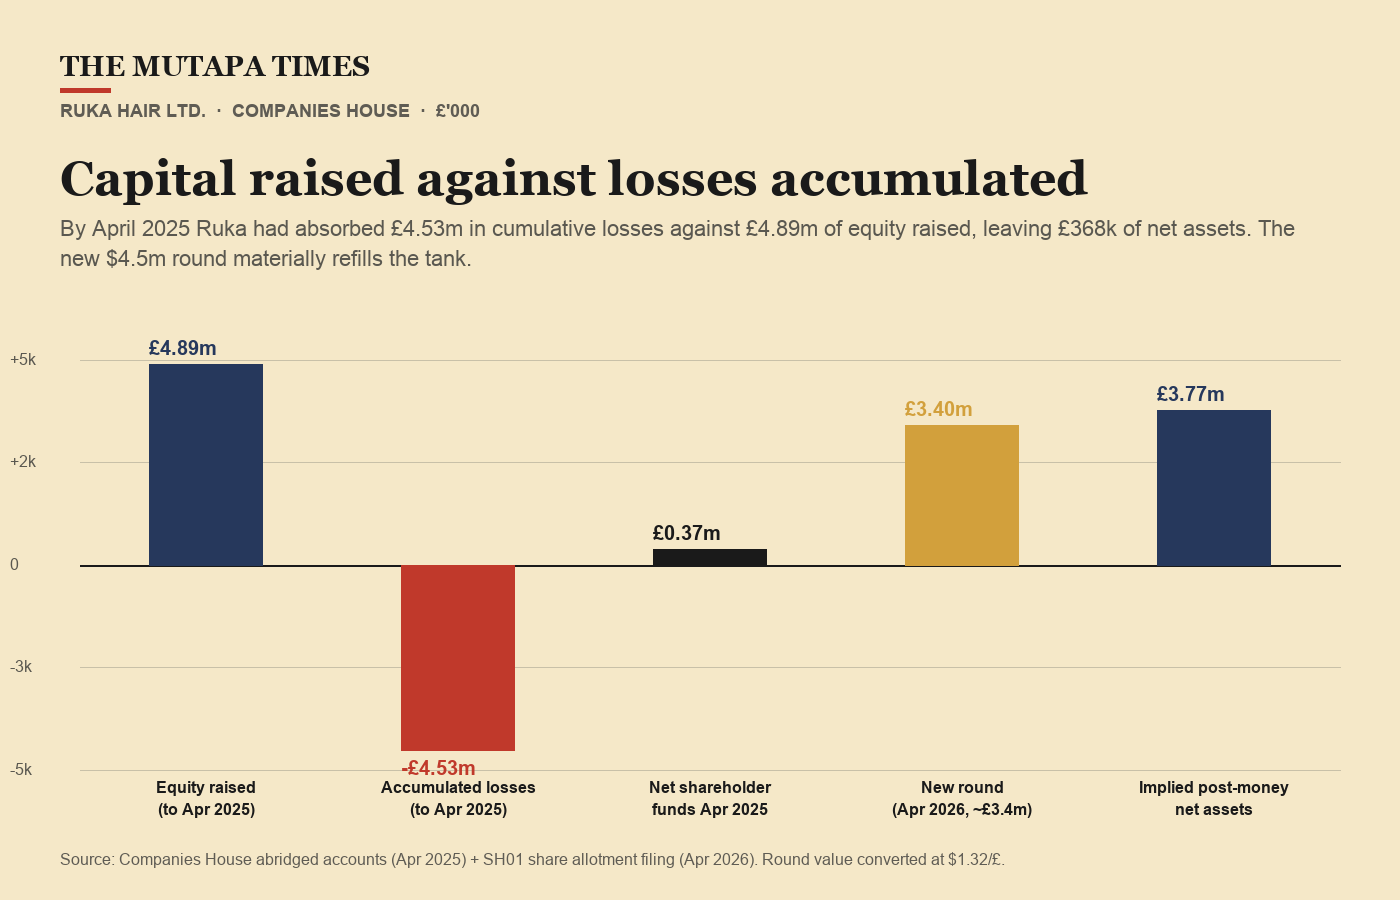
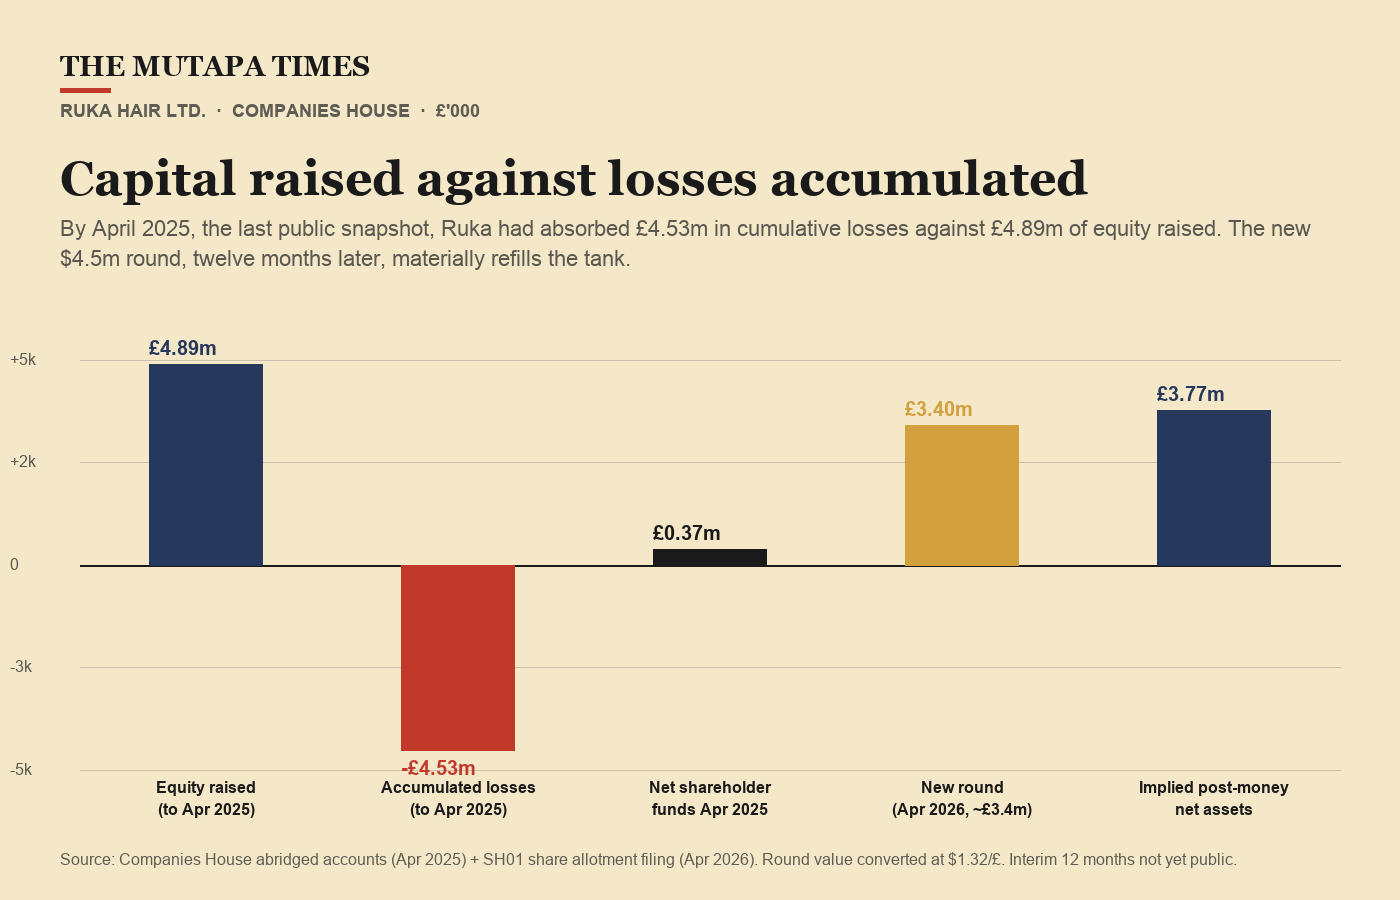
Ruka piece: be honest about the 12-month gap on the Companies House data
The Apr 2025 accounts are a year before the Apr 2026 round. Removed
"on the eve of the round" framing across body + chart titles +
subheads. Added an explicit caveat at the top of the balance-sheet
section flagging the interim 12 months are not yet public, and
softened the capital-efficiency paragraph so the 0.93 ratio is
clearly stamped as an April-2025 snapshot rather than the position
at signing.

Changed region(s): [[0.0307, 0.2489, 0.9214, 0.3111], [0.7064, 0.9333, 0.8907, 0.9644]]

diff --git a/articles/2026-05-14-henkel-ventures-co-leads-rukas-4-5m-round.html b/articles/2026-05-14-henkel-ventures-co-leads-rukas-4-5m-round.html
@@ -228,15 +228,18 @@ Freedom Trail Capital, the round's other co-lead, has previously backed Sienna N
 <p>
 Read at one remove, this is also a story about Zimbabwean diaspora capital-formation. The cohort of Zimbabwean-founded businesses scaling out of London, Johannesburg, New York and Toronto has, in the last five years, started to clear the kind of cap-table milestones that were once the preserve of much better-networked founder communities. Ruka, with Henkel now on the register alongside Big Issue Invest and a carefully chosen roster of operator-angels, is the most legible example to date of what that cohort can build. It will not be the last.
 </p>
-<h2>A leaner balance sheet on the eve of the round</h2>
+<h2>A leaner balance sheet, a year before the round</h2>
 <p>
-<img src="/img/uploads/ruka-launch/chart-balance-sheet.png" alt="Working capital cycle, tighter on the eve of the round" class="article-body-img">
+<img src="/img/uploads/ruka-launch/chart-balance-sheet.png" alt="Working capital cycle tightened over the year to April 2025" class="article-body-img">
 </p>
 <p>
-Ruka's most recent abridged accounts at Companies House, for the year ended 30 April 2025, show a company that arrived at this round with a cleaner working-capital profile than the previous reporting period suggested. Stocks fell to £447,212 from £727,505. Debtors fell to £342,263 from £602,417. Cash at bank multiplied close to tenfold, from £40,044 to £398,733. Creditors falling due within one year reduced to £823,725 from £900,022.
+One caveat at the top. Ruka's most recent abridged accounts at Companies House are for the year ended 30 April 2025, twelve months before the new round closed. The interim year, from May 2025 to April 2026, will not be in the public record until the next filing, due by the end of January 2027. The picture below is therefore the last public snapshot, not the picture at the moment Henkel signed.
 </p>
 <p>
-Read together, these are the marks of a company that has tightened its working-capital cycle, run down its inventory overhang and rebuilt a cash buffer ahead of a strategic raise. The 18-month comparator period, which ran to April 2024, captured the messier phase of a post-seed direct-to-consumer brand: heavier stock, longer receivables, a thin cash line. The year to April 2025 reads as an operational reset, of a kind familiar across the DTC sector since 2024.
+With that flagged, the trajectory through to 30 April 2025 was a clean one. Stocks fell to £447,212 from £727,505. Debtors fell to £342,263 from £602,417. Cash at bank multiplied close to tenfold, from £40,044 to £398,733. Creditors falling due within one year reduced to £823,725 from £900,022.
+</p>
+<p>
+Read together, these are the marks of a company that tightened its working-capital cycle, ran down its inventory overhang and rebuilt a cash buffer through the period. The 18-month comparator window, which ran to April 2024, captured the messier phase of a post-seed direct-to-consumer brand: heavier stock, longer receivables, a thin cash line. The year to April 2025 reads as an operational reset, of a kind familiar across the DTC sector since 2024. Whatever has happened in the twelve months since will land in the next set of accounts.
 </p>
 <p>
 Headcount over the most recent reporting period averaged seven, against an average of twenty across the prior 18-month window. The two periods are not strictly comparable on a like-for-like basis, but the direction is clear and consistent with what one would expect to see in the wider DTC consumer cohort over the same span.
@@ -246,10 +249,10 @@ Headcount over the most recent reporting period averaged seven, against an avera
 <img src="/img/uploads/ruka-launch/chart-capital-structure.png" alt="Capital raised against losses accumulated" class="article-body-img">
 </p>
 <p>
-The longer arc is harder. Ruka's accumulated profit and loss deficit widened to £4.53m at the April 2025 balance sheet date, from £4.07m eighteen months earlier. Aggregate equity on the balance sheet, including share capital, the share premium account and other reserves, stood at £4.89m. That left net shareholder funds of £367,944, after accumulated losses are netted out.
+The longer arc is harder. Ruka's accumulated profit and loss deficit widened to £4.53m at the April 2025 balance sheet date, from £4.07m eighteen months earlier. Aggregate equity on the balance sheet, including share capital, the share premium account and other reserves, stood at £4.89m at the same date. That left net shareholder funds of £367,944, after accumulated losses were netted out.
 </p>
 <p>
-The implied capital-efficiency ratio, accumulated losses against cumulative equity raised, sits at 0.93. In plain English: the company had absorbed roughly ninety-three pence of losses for every pound of equity put in, before this round. That ratio is not unusual for a venture-backed DTC consumer brand in its first five years, but it does explain the timing of the new round.
+The implied capital-efficiency ratio, accumulated losses against cumulative equity raised, was 0.93 at April 2025. In plain English: by that snapshot, the company had absorbed roughly ninety-three pence of losses for every pound of equity put in. That ratio is not unusual for a venture-backed DTC consumer brand in its first five years, but it does help explain the strategic case for the round that closed twelve months later. The 12-month interim, in which more burn will have taken place, will only become visible when the next set of accounts is filed.
 </p>
 <p>
 The 29 April 2026 SH01 filing at Companies House records the allotment of 109,289 new Series Seed shares on 28 April. The new shares carry full voting rights, full dividend rights and a liquidation preference that ranks first on a distribution of assets. Post-allotment, Ruka's issued share capital comprises 1,597,524 Ordinary shares and 689,436 Series Seed shares, a roughly 70/30 split. The aggregate nominal value of the company's issued capital is £914.78, the unrevealing rounding-error figure that small UK companies typically file. The economic price of the new round will be properly visible only in next year's accounts, when the cash crosses the share premium account.

diff --git a/scripts/build_ruka_charts.py b/scripts/build_ruka_charts.py
@@ -73,9 +73,9 @@ def _save(img, name):
 # ── 1. Balance-sheet bars ────────────────────────────────
 def chart_balance_sheet():
     img, draw = _setup(
-        "Working capital cycle, tighter on the eve of the round",
-        "Stocks down 39%, debtors down 43%, cash up nearly tenfold over the 12 months to April 2025.",
-        "Source: Companies House, Ruka Hair Ltd. unaudited abridged accounts, year to 30 April 2025.",
+        "Working capital cycle tightened over the year to April 2025",
+        "Stocks down 39%, debtors down 43%, cash up nearly tenfold over the 12 months to April 2025. The most recent public picture, a year before the new round.",
+        "Source: Companies House, Ruka Hair Ltd. unaudited abridged accounts, year to 30 April 2025. Next filing due January 2027.",
     )
     # Data — values in £'000
     series = [
@@ -137,8 +137,8 @@ def chart_balance_sheet():
 def chart_capital_structure():
     img, draw = _setup(
         "Capital raised against losses accumulated",
-        "By April 2025 Ruka had absorbed £4.53m in cumulative losses against £4.89m of equity raised, leaving £368k of net assets. The new $4.5m round materially refills the tank.",
-        "Source: Companies House abridged accounts (Apr 2025) + SH01 share allotment filing (Apr 2026). Round value converted at $1.32/£.",
+        "By April 2025, the last public snapshot, Ruka had absorbed £4.53m in cumulative losses against £4.89m of equity raised. The new $4.5m round, twelve months later, materially refills the tank.",
+        "Source: Companies House abridged accounts (Apr 2025) + SH01 share allotment filing (Apr 2026). Round value converted at $1.32/£. Interim 12 months not yet public.",
     )
     # Values in £'000
     bars = [

diff --git a/content/articles/2026-05-14-henkel-ventures-co-leads-rukas-4-5m-round.md b/content/articles/2026-05-14-henkel-ventures-co-leads-rukas-4-5m-round.md
@@ -19,13 +19,15 @@ Freedom Trail Capital, the round's other co-lead, has previously backed Sienna N
 
 Read at one remove, this is also a story about Zimbabwean diaspora capital-formation. The cohort of Zimbabwean-founded businesses scaling out of London, Johannesburg, New York and Toronto has, in the last five years, started to clear the kind of cap-table milestones that were once the preserve of much better-networked founder communities. Ruka, with Henkel now on the register alongside Big Issue Invest and a carefully chosen roster of operator-angels, is the most legible example to date of what that cohort can build. It will not be the last.
 
-## A leaner balance sheet on the eve of the round
+## A leaner balance sheet, a year before the round
 
-![Working capital cycle, tighter on the eve of the round](/img/uploads/ruka-launch/chart-balance-sheet.png)
+![Working capital cycle tightened over the year to April 2025](/img/uploads/ruka-launch/chart-balance-sheet.png)
 
-Ruka's most recent abridged accounts at Companies House, for the year ended 30 April 2025, show a company that arrived at this round with a cleaner working-capital profile than the previous reporting period suggested. Stocks fell to £447,212 from £727,505. Debtors fell to £342,263 from £602,417. Cash at bank multiplied close to tenfold, from £40,044 to £398,733. Creditors falling due within one year reduced to £823,725 from £900,022.
+One caveat at the top. Ruka's most recent abridged accounts at Companies House are for the year ended 30 April 2025, twelve months before the new round closed. The interim year, from May 2025 to April 2026, will not be in the public record until the next filing, due by the end of January 2027. The picture below is therefore the last public snapshot, not the picture at the moment Henkel signed.
 
-Read together, these are the marks of a company that has tightened its working-capital cycle, run down its inventory overhang and rebuilt a cash buffer ahead of a strategic raise. The 18-month comparator period, which ran to April 2024, captured the messier phase of a post-seed direct-to-consumer brand: heavier stock, longer receivables, a thin cash line. The year to April 2025 reads as an operational reset, of a kind familiar across the DTC sector since 2024.
+With that flagged, the trajectory through to 30 April 2025 was a clean one. Stocks fell to £447,212 from £727,505. Debtors fell to £342,263 from £602,417. Cash at bank multiplied close to tenfold, from £40,044 to £398,733. Creditors falling due within one year reduced to £823,725 from £900,022.
+
+Read together, these are the marks of a company that tightened its working-capital cycle, ran down its inventory overhang and rebuilt a cash buffer through the period. The 18-month comparator window, which ran to April 2024, captured the messier phase of a post-seed direct-to-consumer brand: heavier stock, longer receivables, a thin cash line. The year to April 2025 reads as an operational reset, of a kind familiar across the DTC sector since 2024. Whatever has happened in the twelve months since will land in the next set of accounts.
 
 Headcount over the most recent reporting period averaged seven, against an average of twenty across the prior 18-month window. The two periods are not strictly comparable on a like-for-like basis, but the direction is clear and consistent with what one would expect to see in the wider DTC consumer cohort over the same span.
 
@@ -33,9 +35,9 @@ Headcount over the most recent reporting period averaged seven, against an avera
 
 ![Capital raised against losses accumulated](/img/uploads/ruka-launch/chart-capital-structure.png)
 
-The longer arc is harder. Ruka's accumulated profit and loss deficit widened to £4.53m at the April 2025 balance sheet date, from £4.07m eighteen months earlier. Aggregate equity on the balance sheet, including share capital, the share premium account and other reserves, stood at £4.89m. That left net shareholder funds of £367,944, after accumulated losses are netted out.
+The longer arc is harder. Ruka's accumulated profit and loss deficit widened to £4.53m at the April 2025 balance sheet date, from £4.07m eighteen months earlier. Aggregate equity on the balance sheet, including share capital, the share premium account and other reserves, stood at £4.89m at the same date. That left net shareholder funds of £367,944, after accumulated losses were netted out.
 
-The implied capital-efficiency ratio, accumulated losses against cumulative equity raised, sits at 0.93. In plain English: the company had absorbed roughly ninety-three pence of losses for every pound of equity put in, before this round. That ratio is not unusual for a venture-backed DTC consumer brand in its first five years, but it does explain the timing of the new round.
+The implied capital-efficiency ratio, accumulated losses against cumulative equity raised, was 0.93 at April 2025. In plain English: by that snapshot, the company had absorbed roughly ninety-three pence of losses for every pound of equity put in. That ratio is not unusual for a venture-backed DTC consumer brand in its first five years, but it does help explain the strategic case for the round that closed twelve months later. The 12-month interim, in which more burn will have taken place, will only become visible when the next set of accounts is filed.
 
 The 29 April 2026 SH01 filing at Companies House records the allotment of 109,289 new Series Seed shares on 28 April. The new shares carry full voting rights, full dividend rights and a liquidation preference that ranks first on a distribution of assets. Post-allotment, Ruka's issued share capital comprises 1,597,524 Ordinary shares and 689,436 Series Seed shares, a roughly 70/30 split. The aggregate nominal value of the company's issued capital is £914.78, the unrevealing rounding-error figure that small UK companies typically file. The economic price of the new round will be properly visible only in next year's accounts, when the cash crosses the share premium account.
 
